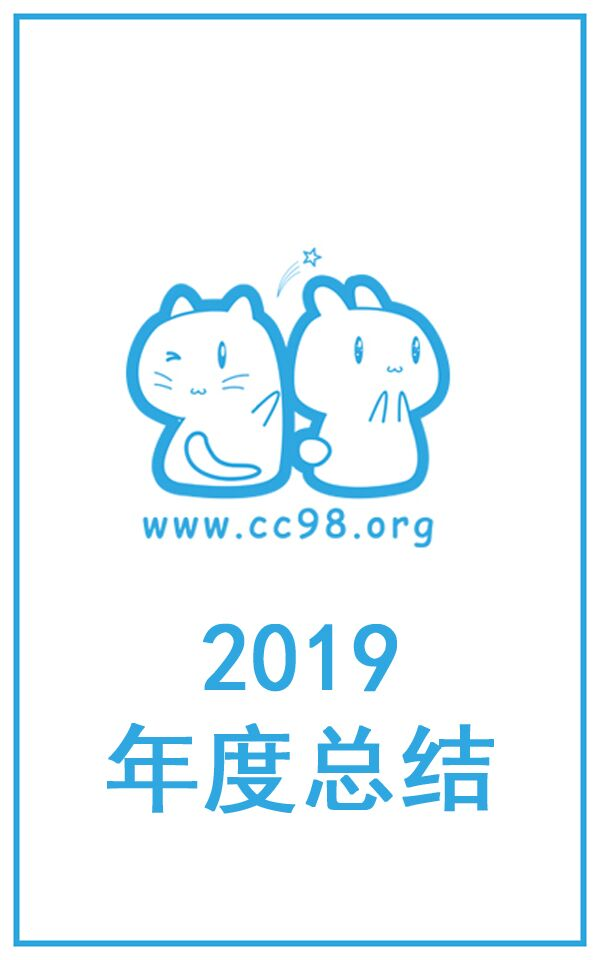
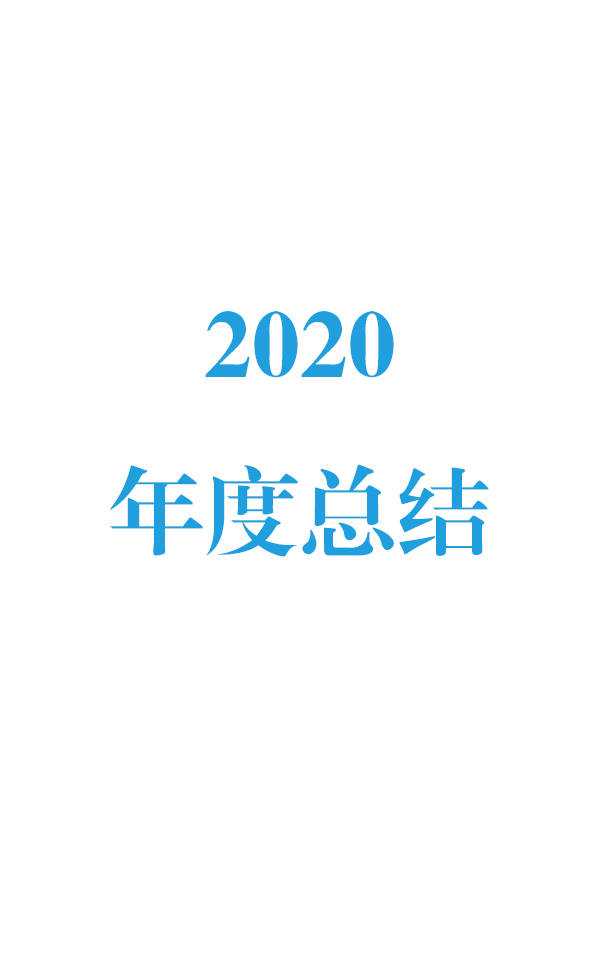
feat: 2020年度总结

diff --git a/CC98.Forum/CC98.Forum/Pages/AnnualReview/page3.tsx b/CC98.Forum/CC98.Forum/Pages/AnnualReview/page3.tsx
@@ -5,14 +5,14 @@ export default class extends React.Component<{ data }> {
     const { data } = this.props
     if (!data.mostReplyTopicCount && !data.mostViewTopicCount) {
       return (
-        <div className="annual-review-page">
+        <div className="annual-review-page annual-review-page-bg-cat">
           在过去的一年里，你还没有发过主题帖...
         </div>
       );
     }
-    return <div className="annual-review-page">
+    return <div className="annual-review-page annual-review-page-bg-cat">
       <div>在你一年发表的主题帖中，</div>
-      {data.mostReplyTopicCount && (
+      {data.mostReplyTopicCount !== 0 && (
         <>
           <div>
             收到最多回复的一次，
@@ -28,7 +28,7 @@ export default class extends React.Component<{ data }> {
       )}
 
       {
-        data.mostViewTopicCount && (
+        data.mostViewTopicCount !== 0 && (
           <>
             <div>
               点击量最多的一次，
@@ -48,17 +48,17 @@ export default class extends React.Component<{ data }> {
         data.mostReceiveLikePostCount !== 0 && (
           <div style={{ marginTop: '2rem' }}>
             你收获他人点赞最多的一个发言，
-        </div>
+          </div>
         )}
       {
         data.mostReceiveLikePostCount !== 0 && (
           <div>
             共收到了
-          <span className="annual-review-page2-hotTopicCount">
+            <span className="annual-review-page2-hotTopicCount">
               {data.mostReceiveLikePostCount}
             </span>
             个赞。
-        </div>
+          </div>
         )}
     </div>
   }

diff --git a/CC98.Forum/CC98.Forum/Pages/AnnualReview/page6.tsx b/CC98.Forum/CC98.Forum/Pages/AnnualReview/page6.tsx
@@ -6,7 +6,7 @@ export default class extends React.Component<{ data }> {
     const achievements = data.achievement.split("|");
     const colors = ["magenta", "volcano", "gold", "lime"];
     return (
-      <div className="annual-review-page">
+      <div className="annual-review-page annual-review-page-bg-rabbit">
         <div>你获得了以下成就：</div>
         <div style={{ display: "flex", justifyContent: "space-around",marginTop:"0.5rem" ,marginLeft: '1rem', marginRight: '1rem', flexWrap: 'wrap'}}>
           {achievements.map((item, index) => (
@@ -22,7 +22,7 @@ export default class extends React.Component<{ data }> {
         <div>CC98论坛祝你：</div>
         <div><span className="annual-review-page6-congratulation">身体健康</span></div>
         <div><span className="annual-review-page6-congratulation">学习生活顺利</span></div>
-        <div><span className="annual-review-page6-congratulation">幸福2020</span></div>
+        <div><span className="annual-review-page6-congratulation">幸福2021</span></div>
       </div>
     );
   }

diff --git a/CC98.Forum/CC98.Forum/Pages/AnnualReview/page1.tsx b/CC98.Forum/CC98.Forum/Pages/AnnualReview/page1.tsx
@@ -5,17 +5,17 @@ export default class extends React.Component<{ data }> {
     const { data } = this.props;
 
     return (
-      <div className="annual-review-page">
-        <div style={{ fontWeight: "bolder", marginTop: '3rem' }}>
+      <div className="annual-review-page annual-review-page-bg-cat" style={{ lineHeight: 1.25 }}>
+        <div style={{ fontWeight: "bolder", marginTop: '2rem' }}>
           亲爱的CC98用户 {data.userInfo.name}：
         </div>
         <img
-          style={{ borderRadius: "50%", marginTop: "1rem" }}
-          width={document.body.clientHeight * 0.1}
+          style={{ borderRadius: "50%", marginTop: '0.5rem' }}
+          width='60px'
           src={`${data.userInfo.portraitUrl}`}
         ></img>
         <div>
-          在过去的2019年里，你有
+          在过去的2020年里，你有
           <span className="annual-review-page2-topicCount">
             {data.postDay}
           </span>

diff --git a/CC98.Forum/CC98.Forum/Components/App.tsx b/CC98.Forum/CC98.Forum/Components/App.tsx
@@ -76,7 +76,7 @@ class App extends React.Component<Props> {
         <Route path="/editor/:mode/:id?" component={ShowEdit} />
 
         <Route path="/board/:id/:page?" component={RBoard} />
-        <Route path="/annual-review" component={AnnualReview} />
+        <Route path="/annual-review-2020" component={AnnualReview} />
         <Route path="/error/401" component={Status.UnauthorizedBoard} />
         <Route path="/index" component={Index} />
 

diff --git a/CC98.Forum/CC98.Forum/Styles/Site.scss b/CC98.Forum/CC98.Forum/Styles/Site.scss
@@ -4179,8 +4179,15 @@ ol {
   width: 48vh;
   height: 76.8vh;
   font-size: 2.5vh;
-  background-image: url("/static/images/annual-review/bg.jpg");
   background-size: contain;
+}
+
+.annual-review-page-bg-cat {
+  background-image: url("/static/images/annual-review/bg-cat.jpg");
+}
+
+.annual-review-page-bg-rabbit {
+  background-image: url("/static/images/annual-review/bg-rabbit.jpg");
 }
 
 .annual-review-page1-days {

diff --git a/CC98.Forum/CC98.Forum/Pages/AnnualReview/page2.tsx b/CC98.Forum/CC98.Forum/Pages/AnnualReview/page2.tsx
@@ -4,7 +4,7 @@ export default class extends React.Component<{ data }> {
   render() {
     const { data } = this.props;
     return (
-      <div className="annual-review-page">
+      <div className="annual-review-page annual-review-page-bg-rabbit">
         <div style={{ marginTop: "1rem" }}>
           你送出了
           <span className="annual-review-page2-topicCount">

diff --git a/CC98.Forum/CC98.Forum/Utility.tsx b/CC98.Forum/CC98.Forum/Utility.tsx
@@ -3223,7 +3223,7 @@ export async function getAnnualReview() {
     store.dispatch(ErrorActions.throwError("LogOut"));
     return null;
   }
-  const url = "/me/annual-review";
+  const url = "/me/annual-review-2020";
   const headers = await formAuthorizeHeader();
   const response = await cc98Fetch(url, { headers });
   return await response.json();

diff --git a/CC98.Forum/CC98.Forum/Pages/AnnualReview/page5.tsx b/CC98.Forum/CC98.Forum/Pages/AnnualReview/page5.tsx
@@ -63,7 +63,7 @@ export default class extends React.Component<{ data }> {
       }
     };
     return (
-      <div className="annual-review-page">
+      <div className="annual-review-page annual-review-page-bg-cat">
         {during && (
           <div style={{ marginTop: "7rem", marginBottom: "-2rem" }}>
             你最喜欢在

diff --git a/CC98.Forum/CC98.Forum/Pages/AnnualReview/page4.tsx b/CC98.Forum/CC98.Forum/Pages/AnnualReview/page4.tsx
@@ -57,7 +57,7 @@ export default class extends React.Component<{ data }> {
     }
    
     return (
-      <div className="annual-review-page">
+      <div className="annual-review-page annual-review-page-bg-rabbit">
         {boards}
         {data.latestPostTime && (
           <div style={{ marginTop: '1rem' }}>
